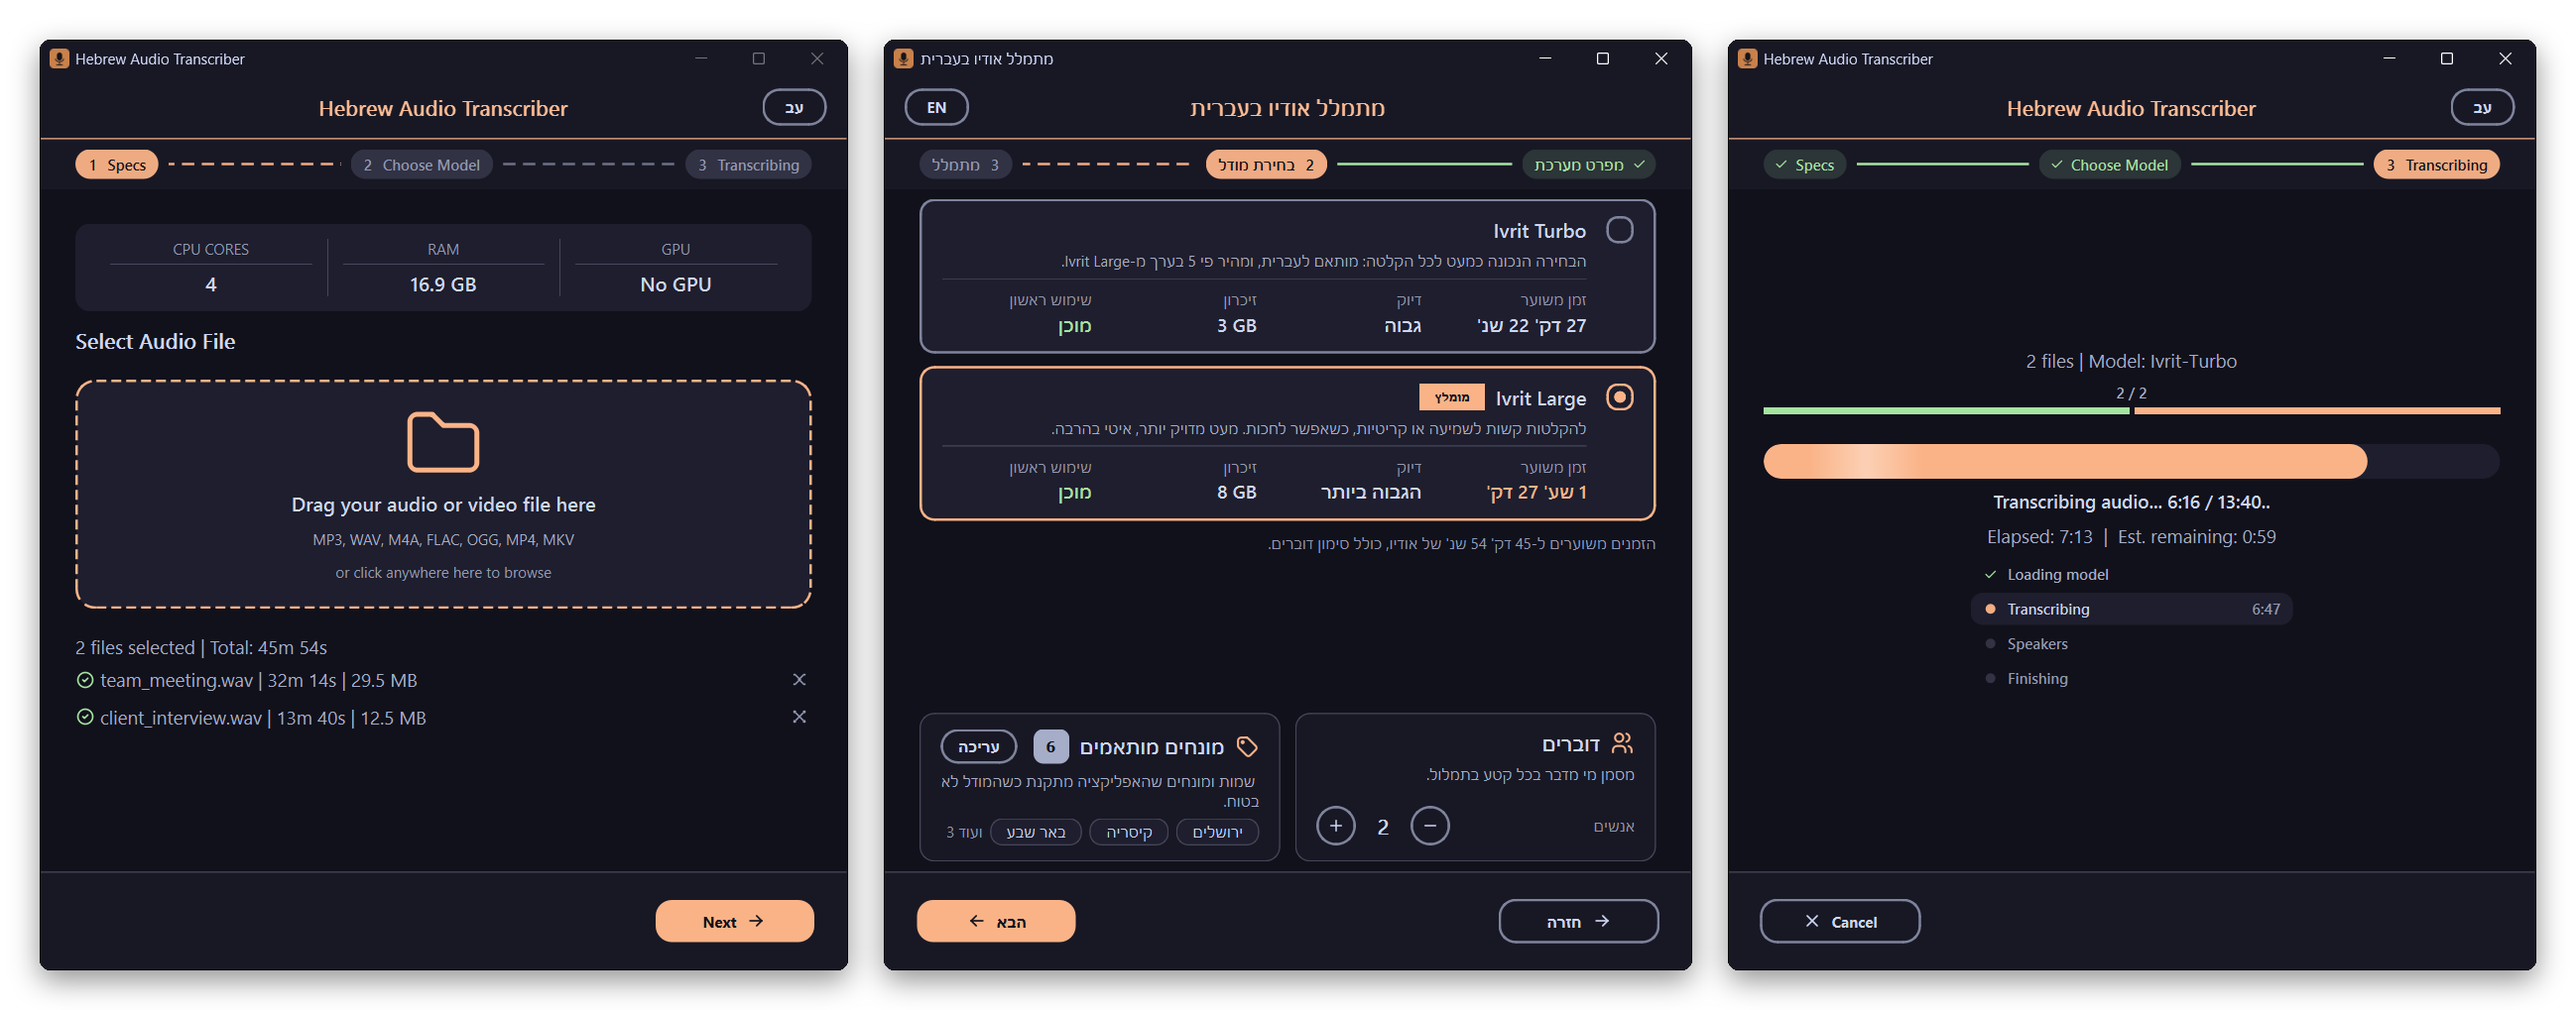
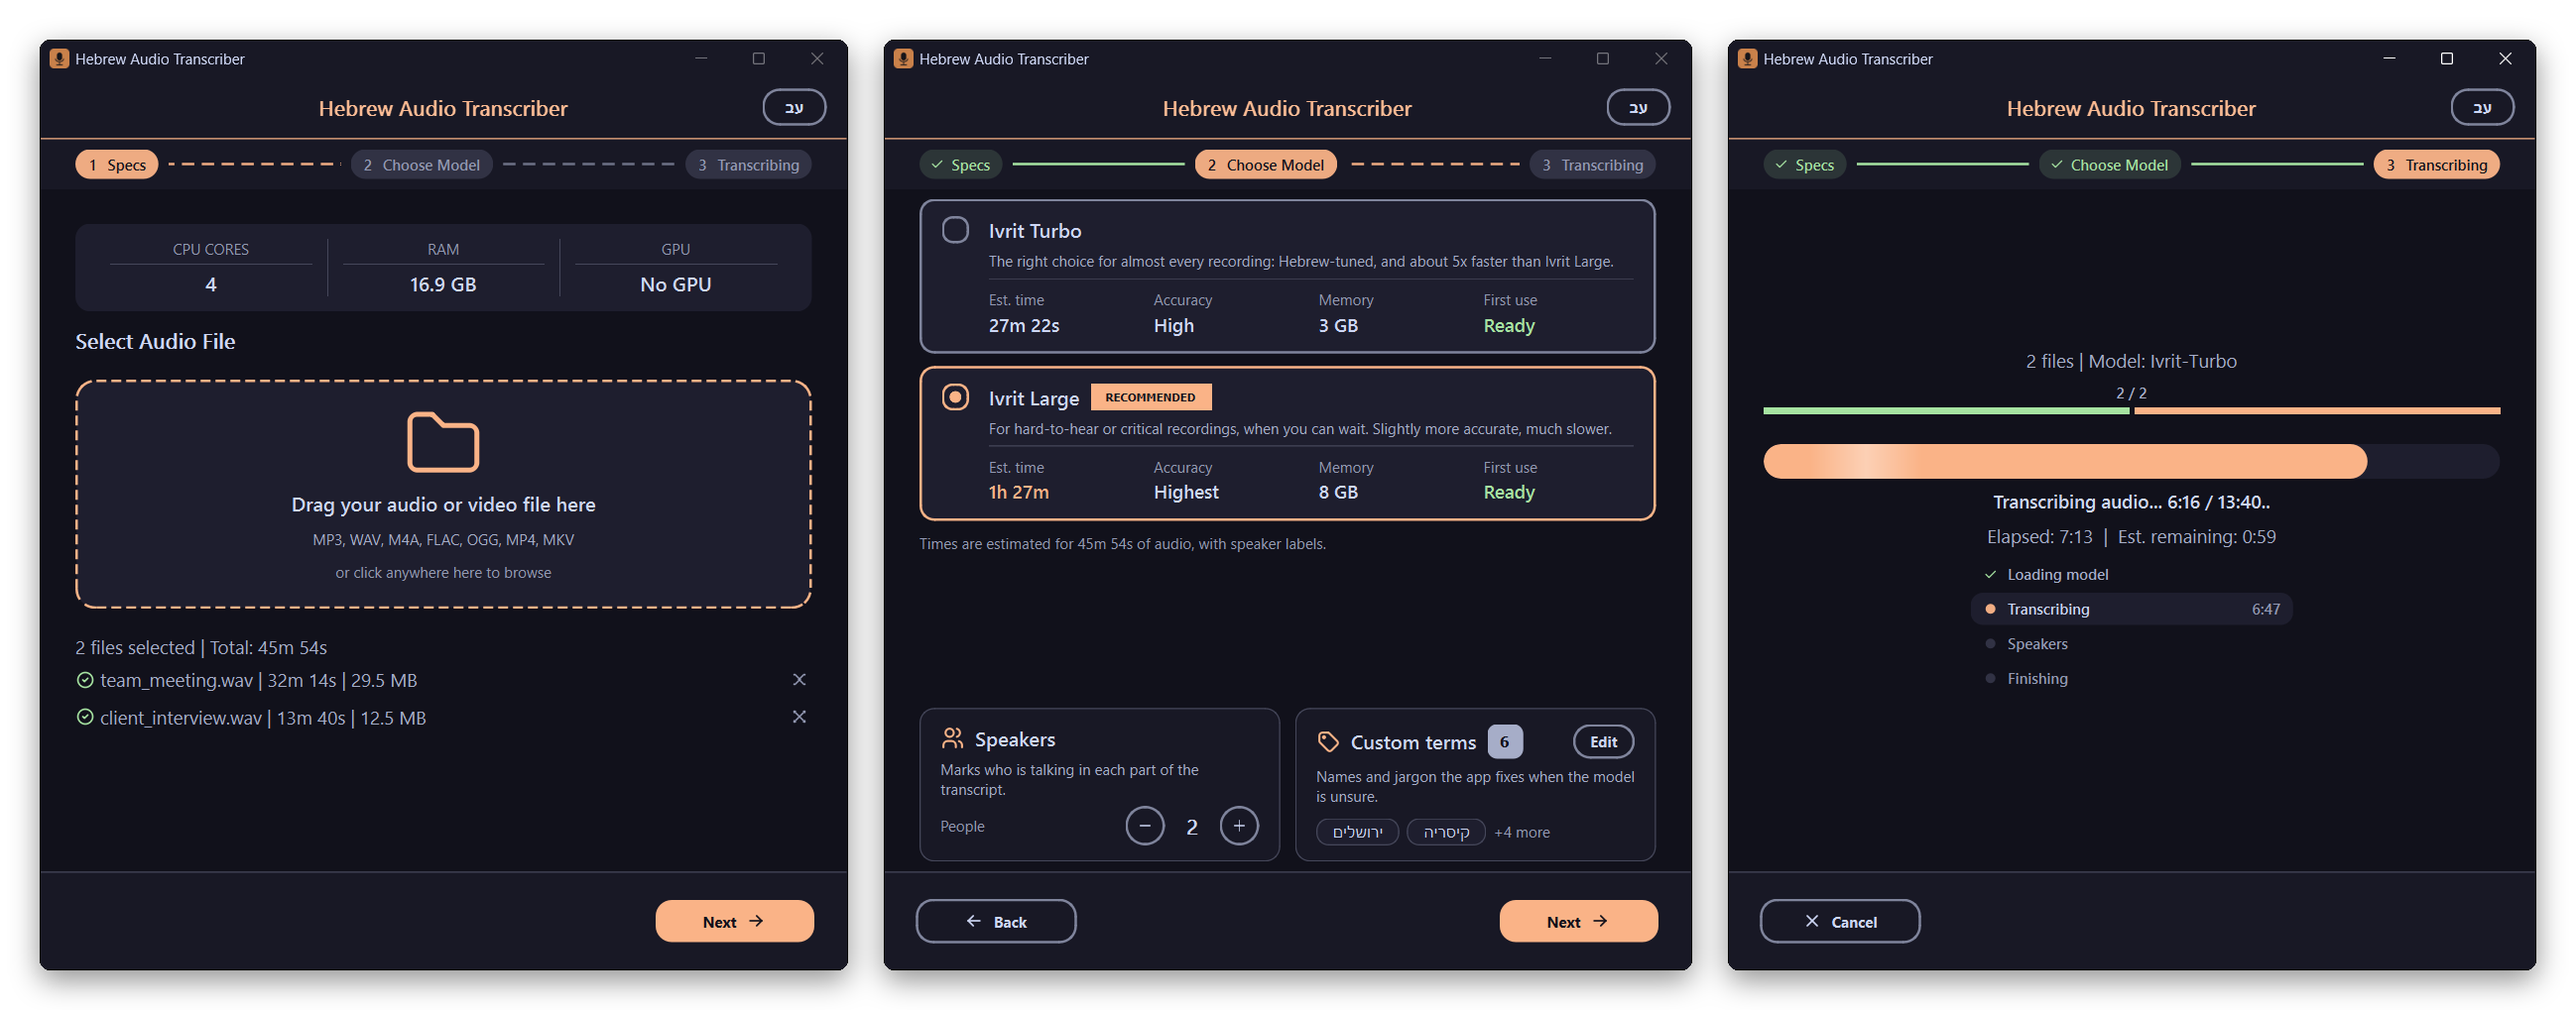
Show the English UI in the README screenshots

diff --git a/README.md b/README.md
@@ -13,7 +13,7 @@
 
 [Features](#features) · [Getting started](#getting-started) · [Models](#models) · [The transcript](#the-transcript) · [Development](#development)
 
-![The three steps: pick files, pick a model (Hebrew UI), transcribe](docs/screenshot-app.png)
+![The three steps: pick files, pick a model, transcribe](docs/screenshot-app.png)
 
 </div>
 
